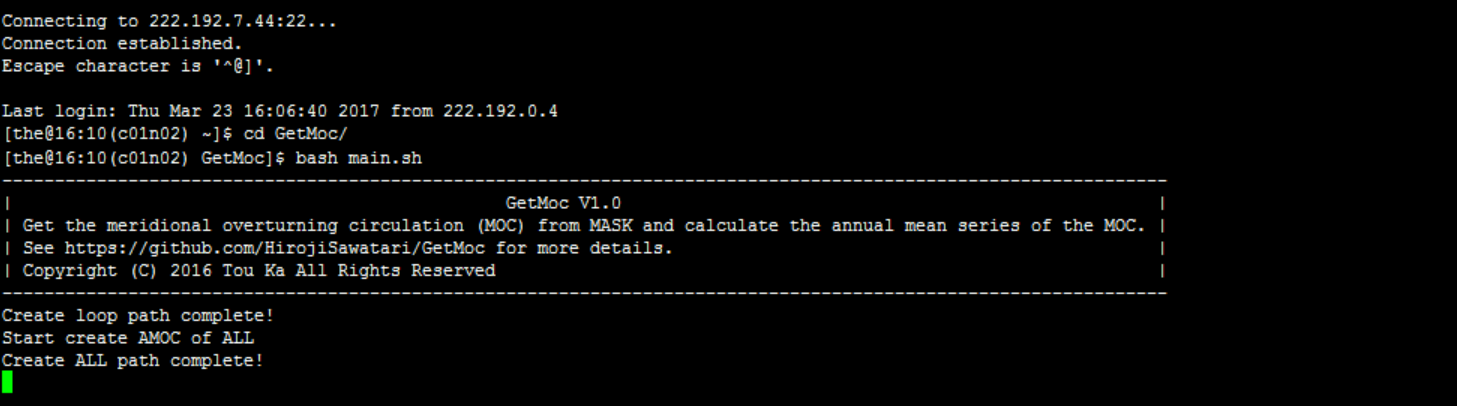
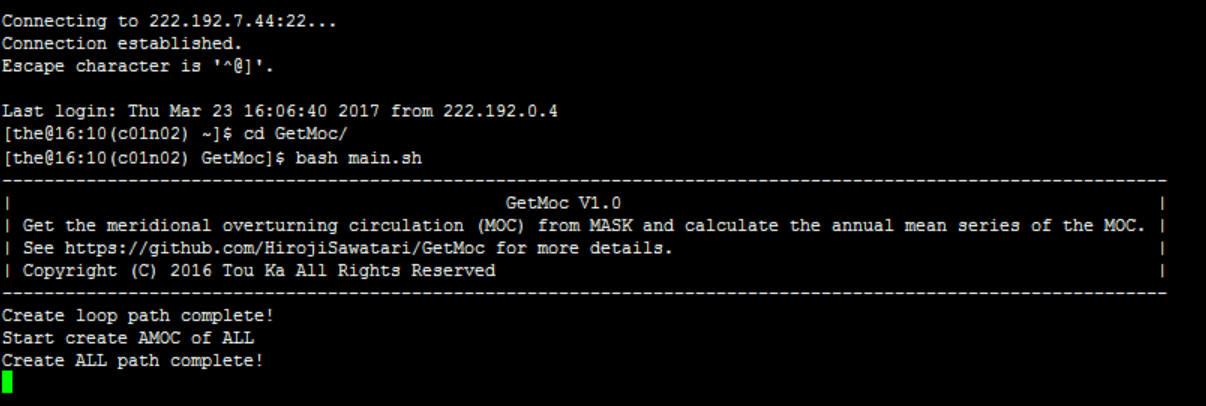
Update screenshots

diff --git a/README.md b/README.md
@@ -4,8 +4,22 @@ This project can get the meridional overturning circulation (MOC) from MASK (Out
 
 This tool base on NCL (NCAR Command Language), run on Linux. First, enter the root directory of GetMoc, do "bash main.sh".
 
-<img src='mdimage/image01.png' height='400px'/>
+<img src='mdimage/image01.png' height='300px'/>
 
-Then, wait for some time, this tool can draw several pictures of AMOC, AMO (Atlantic multidecadal oscillation) and so on from five tests of CESM.
+Then, wait for some time, this tool can draw several pictures of AMOC, AMO (Atlantic multidecadal oscillation) and so on from five climatic modeling experiments of CESM.
+
+For example, AMOC from All Forcings experiment:
+
+<img src='mdimage/image02.png' height='300px'/>
+
+<img src='mdimage/image03.png' height='300px'/>
+
+<img src='mdimage/image04.png' height='300px'/>
+
+AMO from All Forcings experiment:
+
+<img src='mdimage/image05.png' height='300px'/>
+
+<img src='mdimage/image06.png' height='300px'/>
 
 The Fortran project isn't mine, I add it in this project only for test the output data of NCL project.
